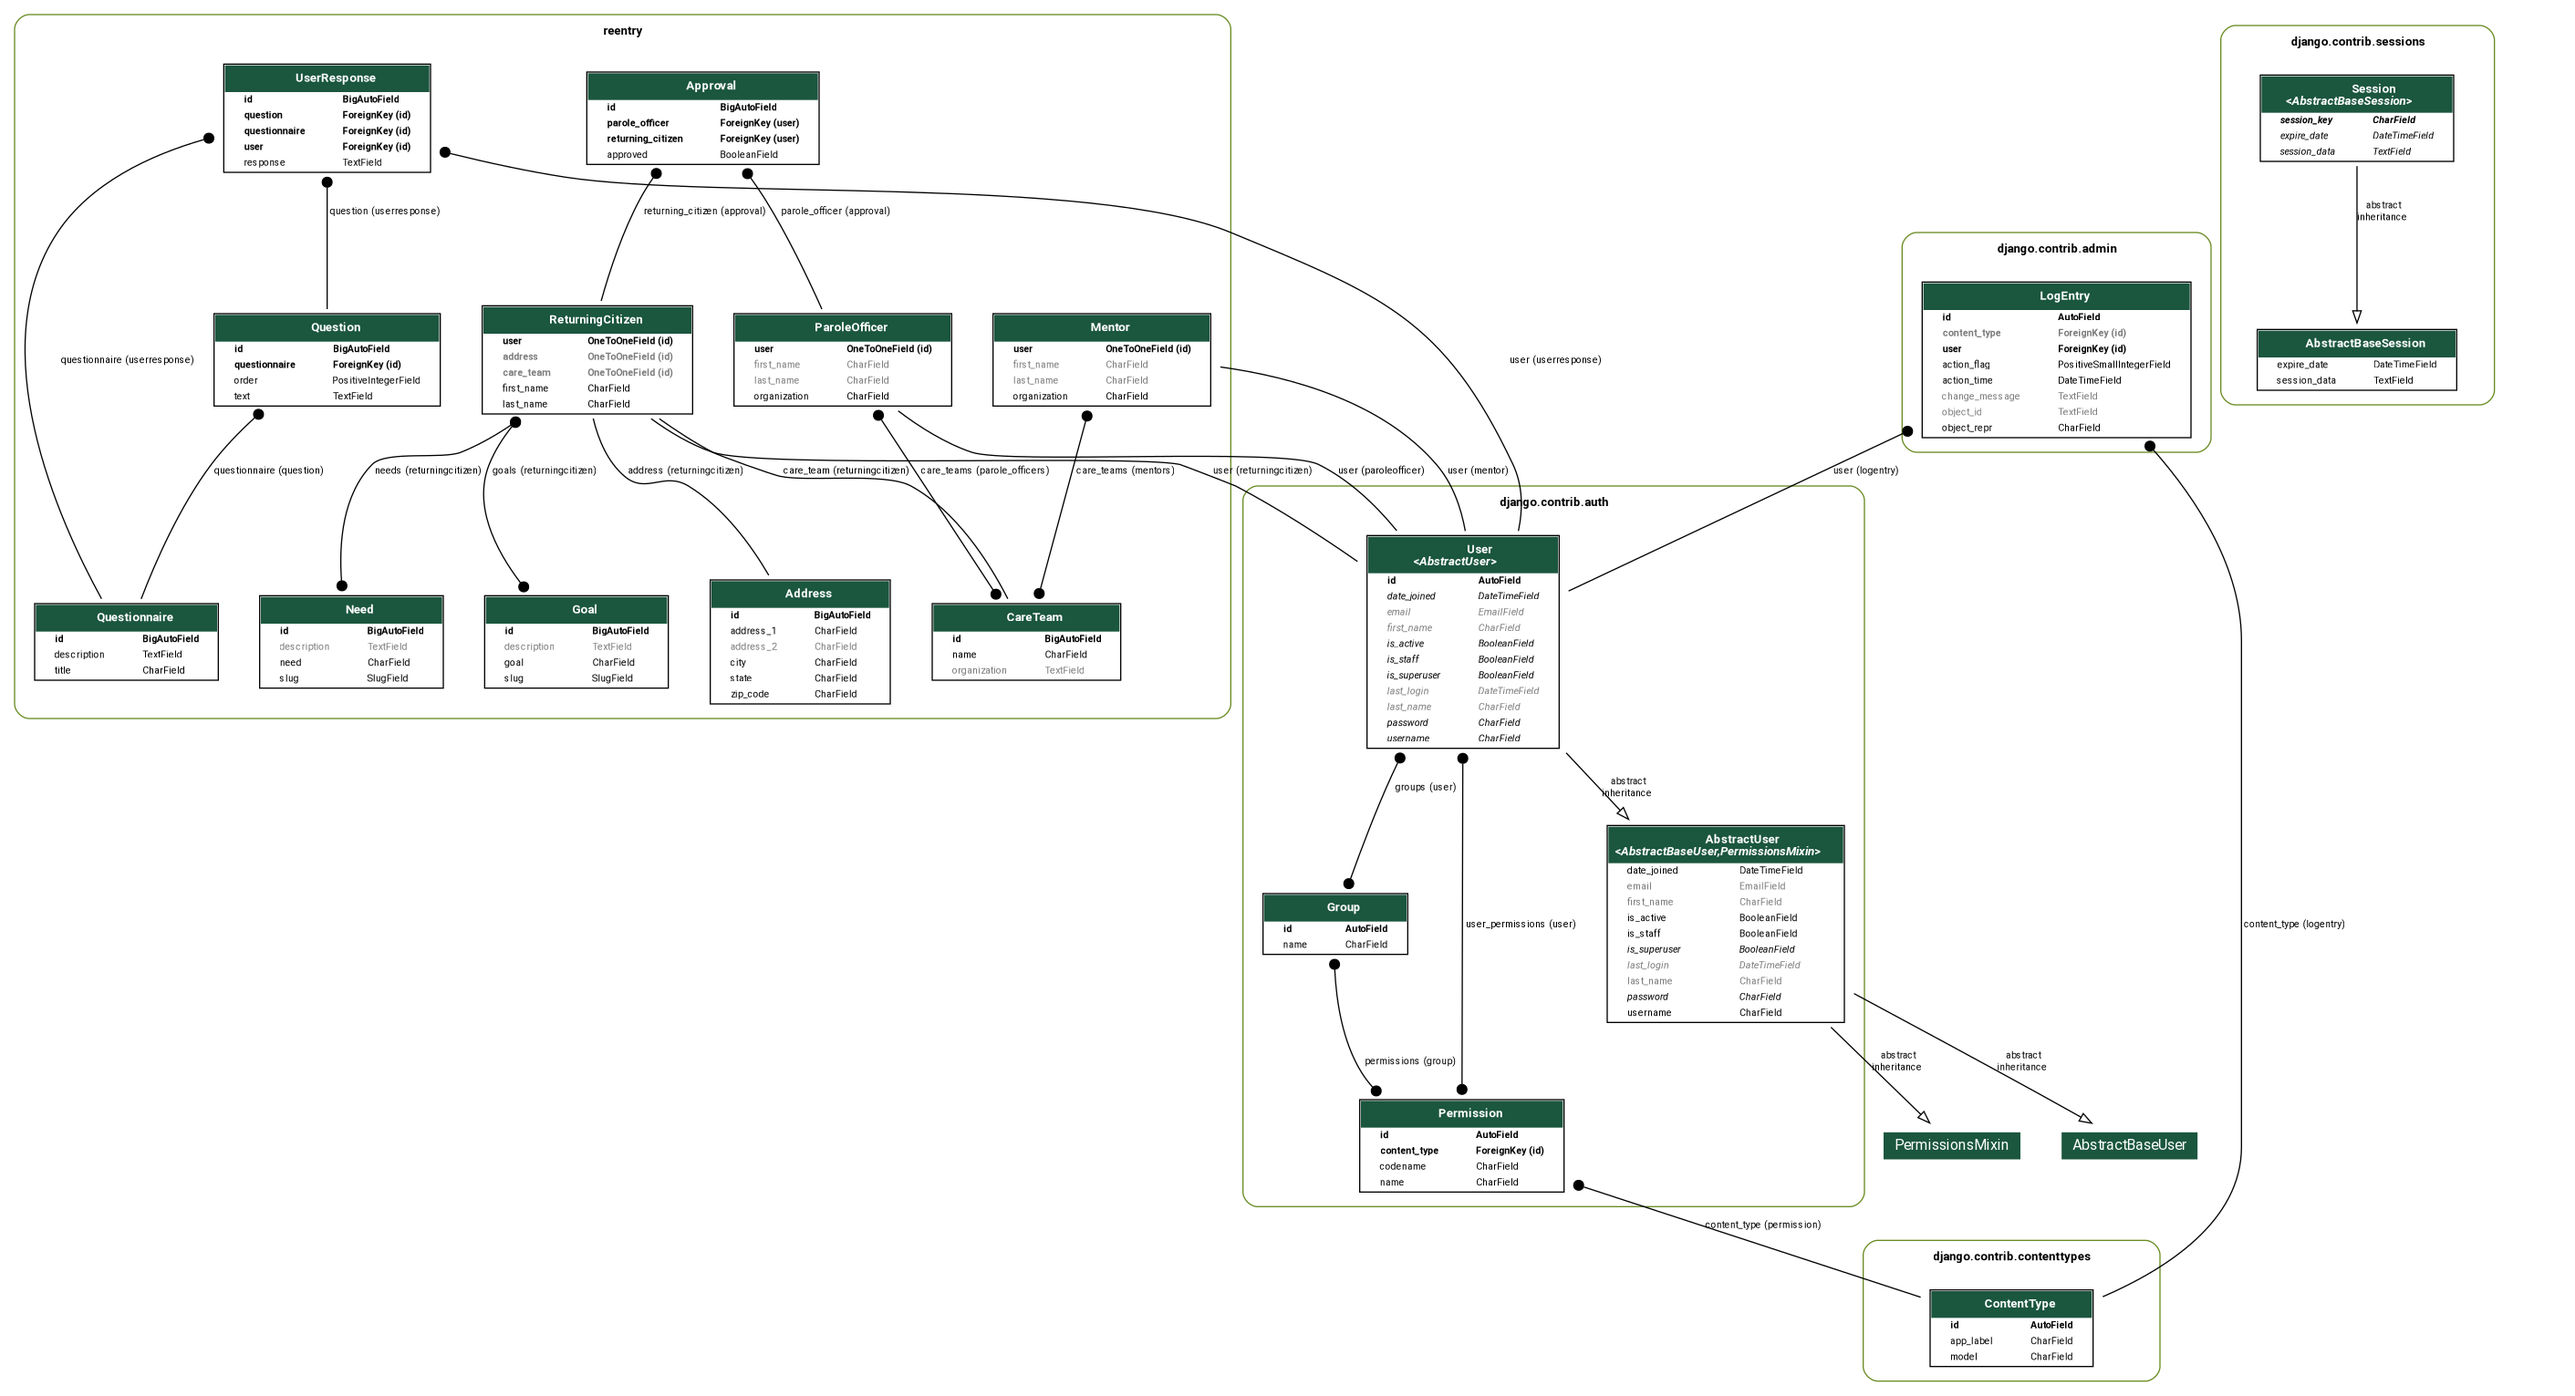
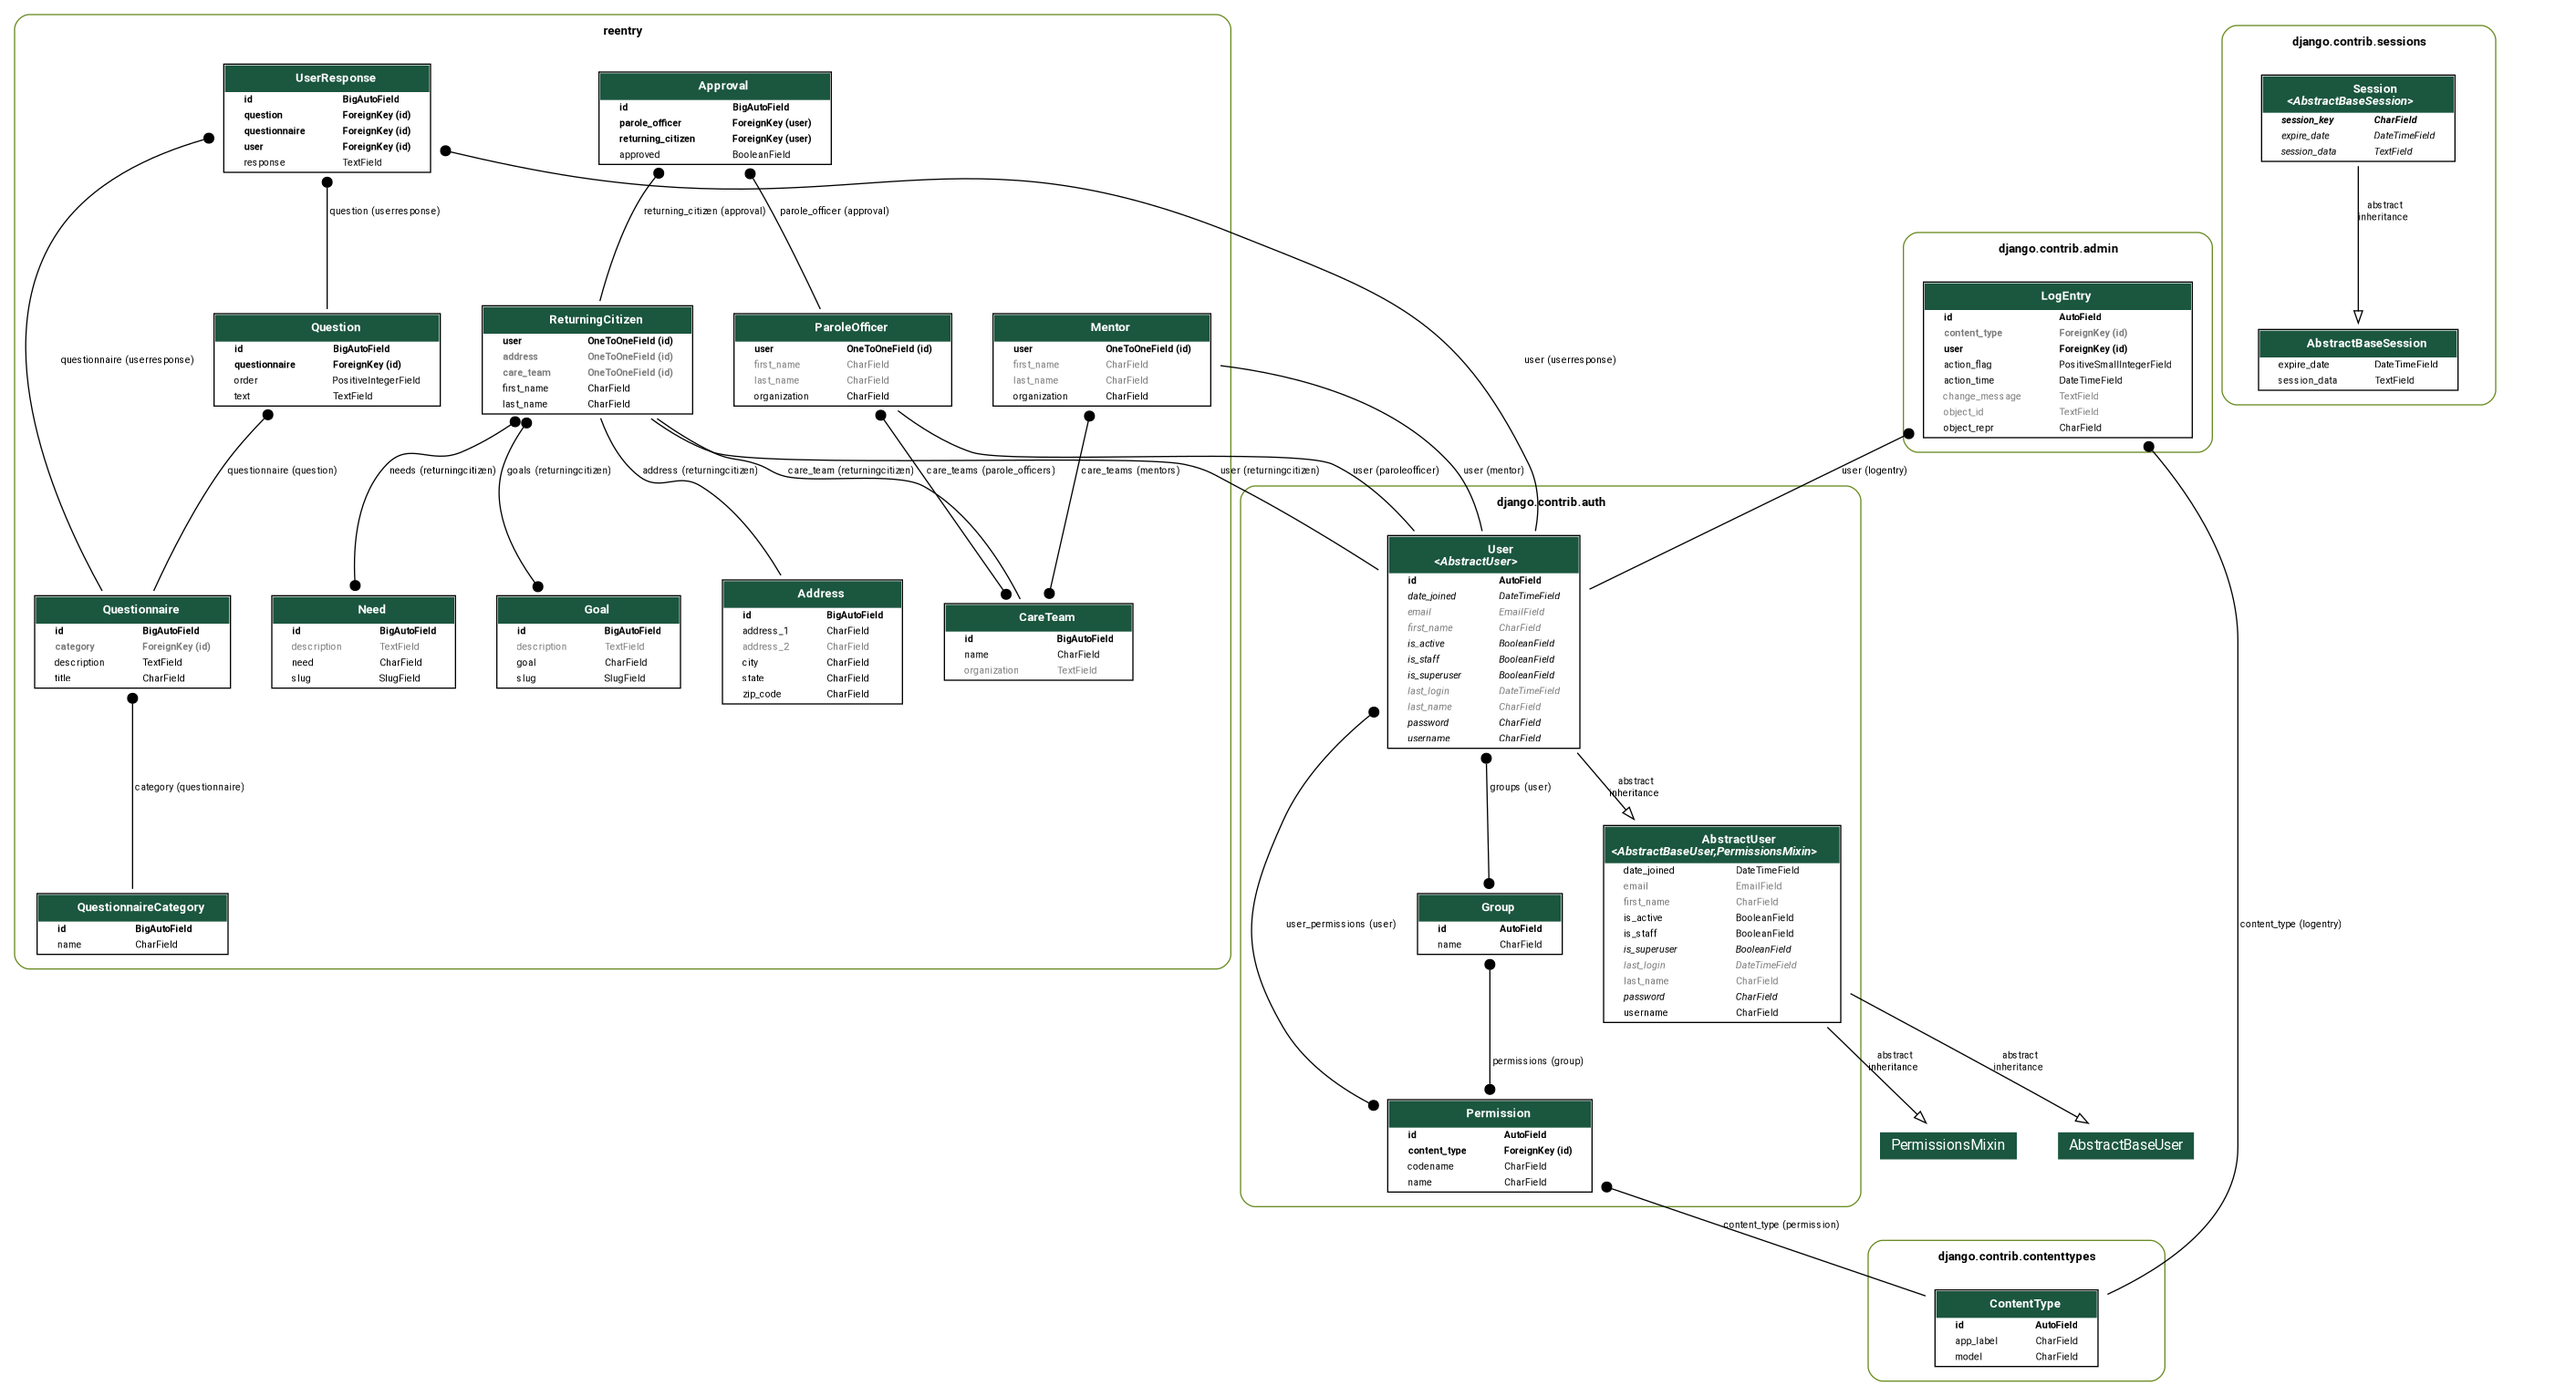
feat: questionnaire categories (for instance "Goals")

diff --git a/trs/reentry/admin.py b/trs/reentry/admin.py
@@ -3,7 +3,20 @@ from django.contrib import admin
 from django.contrib.auth.admin import UserAdmin as BaseUserAdmin
 from django.contrib.auth.models import User
 
-from reentry.models import ParoleOfficer, Mentor, CareTeam, ReturningCitizen, Approval, Need, Goal, Address, Questionnaire, Question, UserResponse
+from reentry.models import (
+    ParoleOfficer,
+    Mentor,
+    CareTeam,
+    ReturningCitizen,
+    Approval,
+    Need,
+    Goal,
+    Address,
+    Questionnaire,
+    QuestionnaireCategory,
+    Question,
+    UserResponse,
+)
 
 
 # Define an inline admin descriptor for mmodel
@@ -13,19 +26,23 @@ class ParoleOfficerInline(admin.StackedInline):
     can_delete = False
     verbose_name_plural = "parole officer"
 
+
 class MentorInline(admin.StackedInline):
     model = Mentor
     can_delete = False
     verbose_name_plural = "mentor"
+
 
 class ReturningCitizenInline(admin.StackedInline):
     model = ReturningCitizen
     can_delete = False
     verbose_name_plural = "returning citizen"
 
+
 # Define a new User admin
 class UserAdmin(BaseUserAdmin):
     inlines = [ParoleOfficerInline, MentorInline, ReturningCitizenInline]
+
 
 admin.site.register(CareTeam)
 # Re-register UserAdmin
@@ -38,3 +55,4 @@ admin.site.register(Address)
 admin.site.register(Questionnaire)
 admin.site.register(Question)
 admin.site.register(UserResponse)
+admin.site.register(QuestionnaireCategory)

diff --git a/trs/reentry/migrations/0008_questionnairecategory_questionnaire_category.py b/trs/reentry/migrations/0008_questionnairecategory_questionnaire_category.py
@@ -1,0 +1,38 @@
+# Generated by Django 5.0 on 2024-01-19 20:17
+
+import django.db.models.deletion
+from django.db import migrations, models
+
+
+class Migration(migrations.Migration):
+    dependencies = [
+        ("reentry", "0007_alter_question_options_question_order"),
+    ]
+
+    operations = [
+        migrations.CreateModel(
+            name="QuestionnaireCategory",
+            fields=[
+                (
+                    "id",
+                    models.BigAutoField(
+                        auto_created=True,
+                        primary_key=True,
+                        serialize=False,
+                        verbose_name="ID",
+                    ),
+                ),
+                ("name", models.CharField(max_length=255)),
+            ],
+        ),
+        migrations.AddField(
+            model_name="questionnaire",
+            name="category",
+            field=models.ForeignKey(
+                blank=True,
+                null=True,
+                on_delete=django.db.models.deletion.CASCADE,
+                to="reentry.questionnairecategory",
+            ),
+        ),
+    ]

diff --git a/trs/reentry/models.py b/trs/reentry/models.py
@@ -63,10 +63,17 @@ class Goal(models.Model):
     def __str__(self):
         return self.goal
 
+class QuestionnaireCategory(models.Model):
+    name = models.CharField(max_length=255)
+
+    def __str__(self):
+        return self.name
+
 
 class Questionnaire(models.Model):
     title = models.CharField(max_length=255)
     description = models.TextField()
+    category = models.ForeignKey(QuestionnaireCategory, on_delete=models.CASCADE, blank=True, null=True)
 
     def __str__(self):
         return self.title
@@ -86,6 +93,9 @@ class UserResponse(models.Model):
     questionnaire = models.ForeignKey(Questionnaire, on_delete=models.CASCADE)
     question = models.ForeignKey(Question, on_delete=models.CASCADE)
     response = models.TextField()
+
+    def category(self):
+        return self.questionnaire.questionnaire_category
 
     def __str__(self):
         return f"{self.user.username}'s response to '{self.question.text}'"
